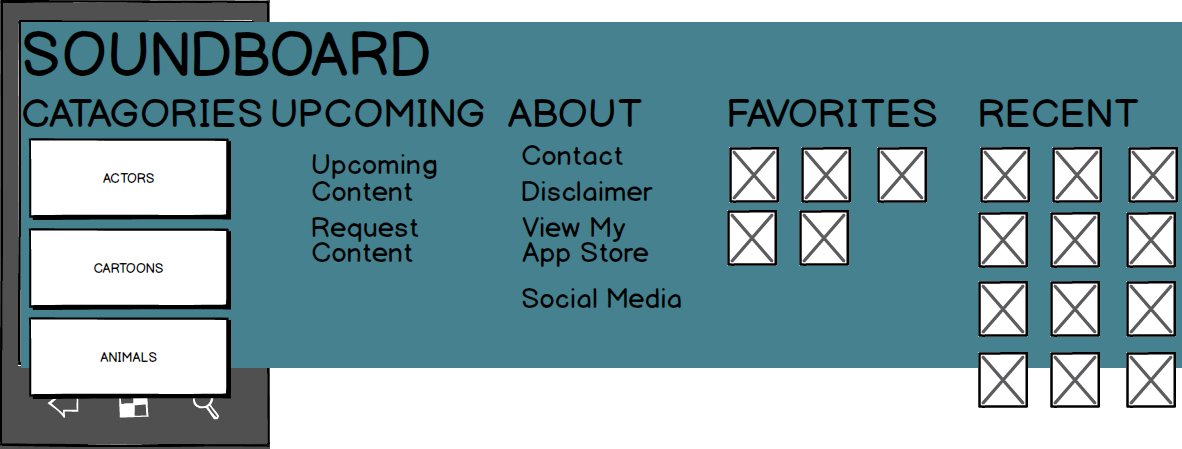
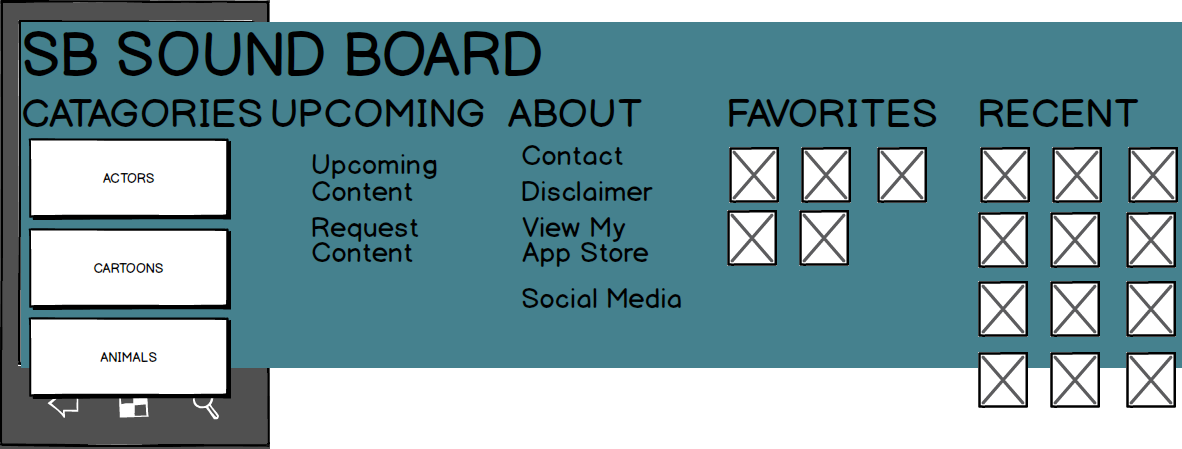
Renamed SoundBoard to SB Sound Board

Changed region(s): [[0.0305, 0.0624, 0.4569, 0.1871]]

diff --git a/README.md b/README.md
@@ -1,3 +1,2 @@
-Sound Board
-
-Sound Board is an organized App for Windows Phone that hosts and plays all your favorite audio clips. 
+SB Sound Board
+SB Sound Board is an organized App for Windows Phone that hosts and plays all your favorite audio clips. 
